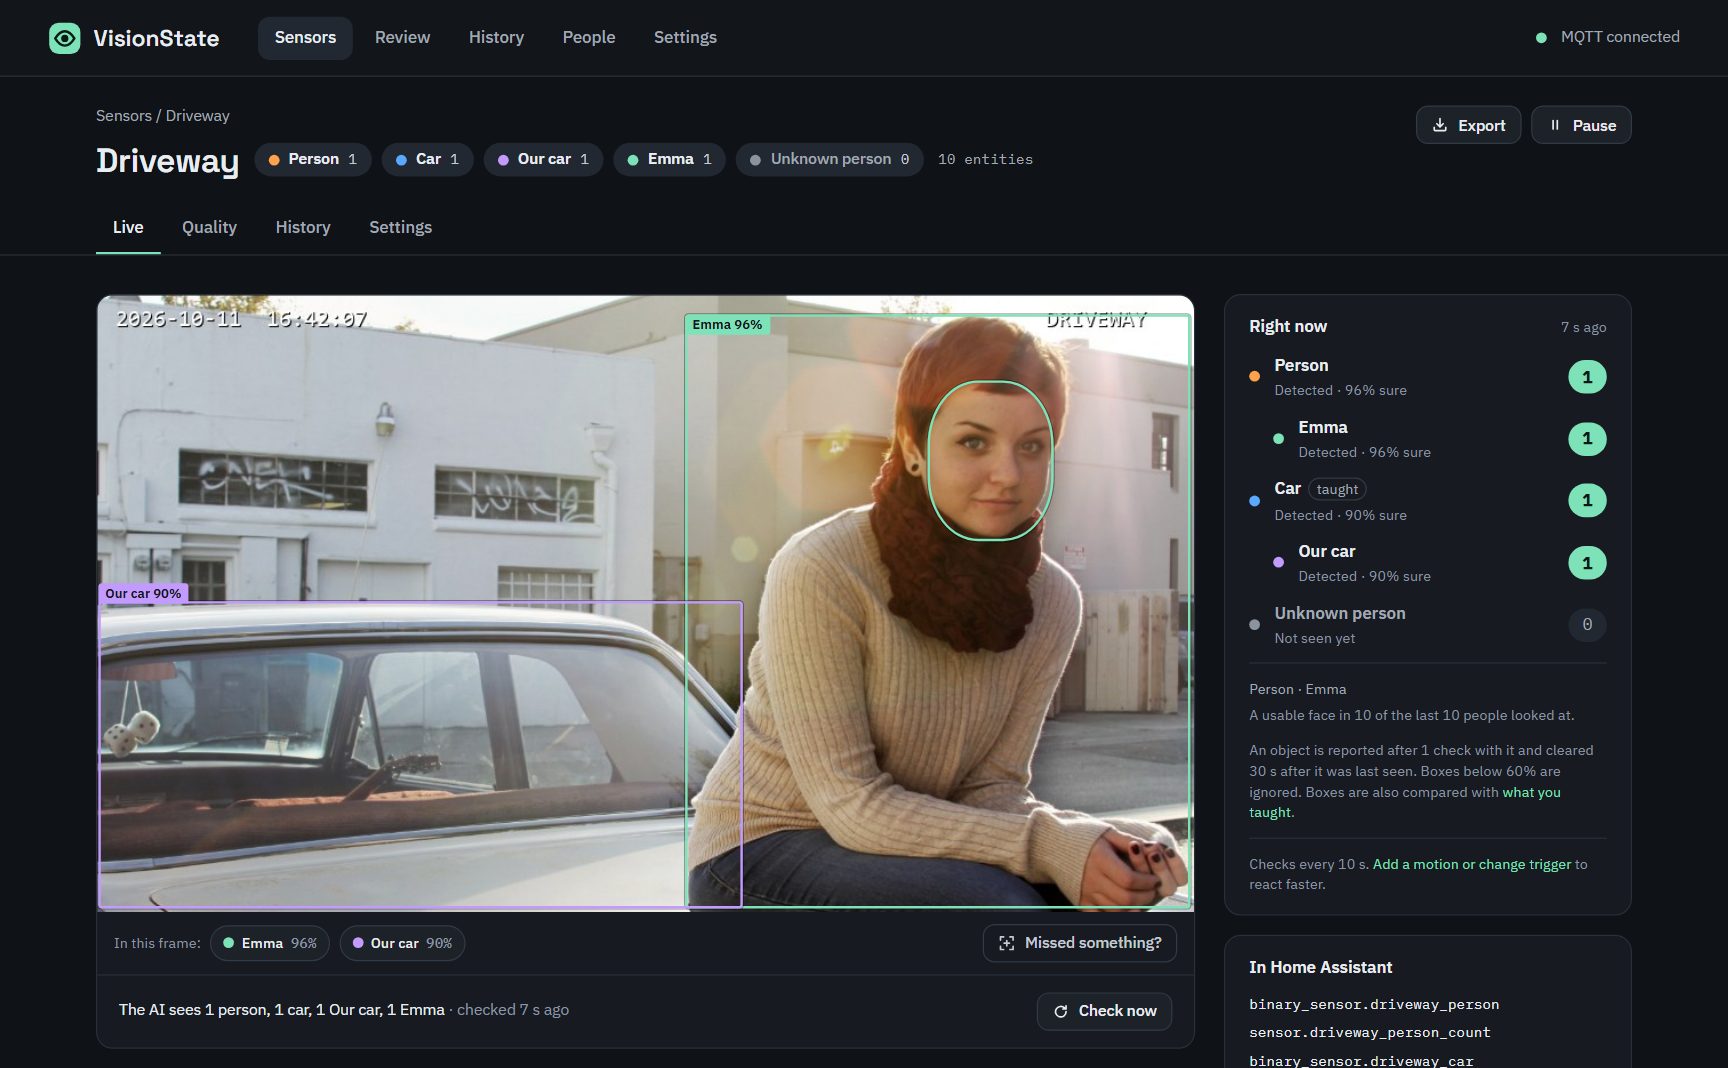
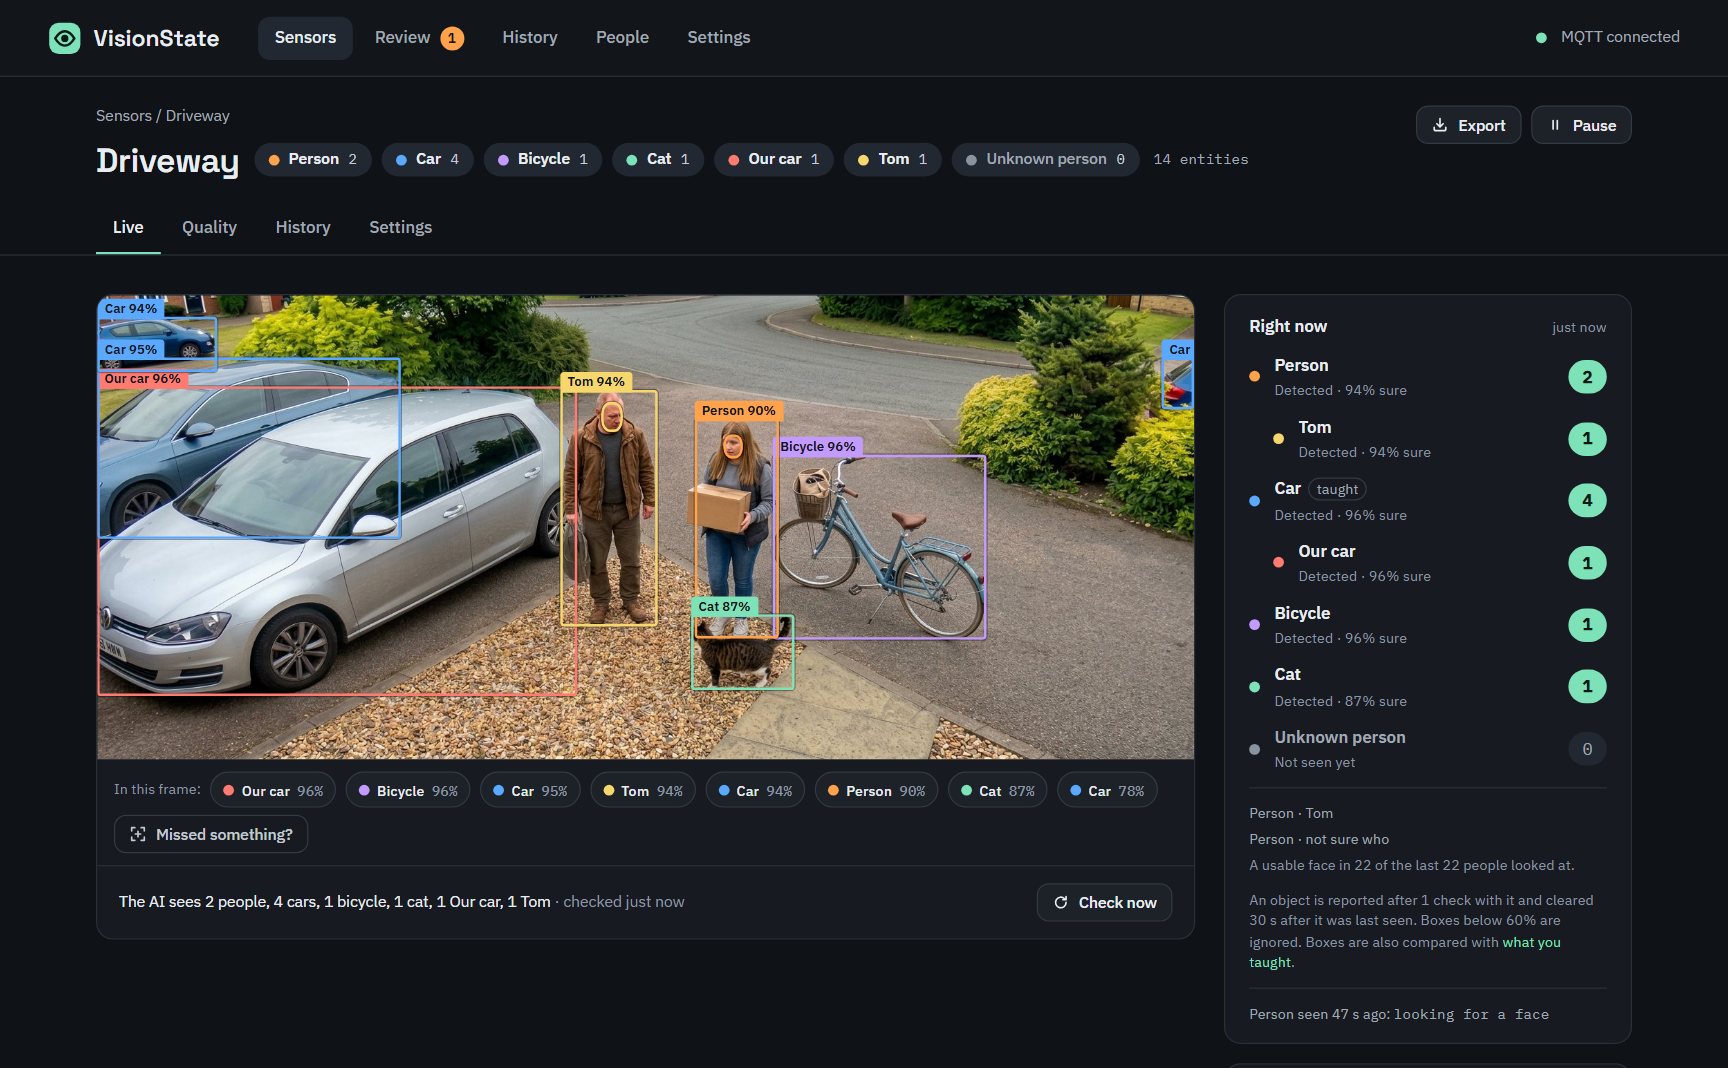
Demo: a driveway with Tom, a girl with a parcel, cars, a bicycle and a cat
The demo Driveway (scripts/seed_demo.py, the README screenshots) shows much more of what an
object sensor does. The pictures are made by the maintainer with Google Gemini (no real people,
CC0): Tom is taught on the camera from this picture and one of him alone, and from a photo as
with Add photos; the silver car is "Our car". The faces are small (1586 px wide pictures), so the
sensor looks for faces down to 26 px. The Emma photos are gone; new promo screenshots.

diff --git a/scripts/seed_demo.py b/scripts/seed_demo.py
@@ -3,8 +3,12 @@
     python scripts/seed_demo.py --url http://127.0.0.1:8099 --images http://127.0.0.1:8765/photo
     python scripts/seed_demo.py --app c088851d_visionstate      # an installed app, through Ingress
 
-- Driveway (objects): a person and a car; Emma is recognised by her face (taught from two other
-  photos of her) and the car is taught as the own label "Our car".
+- Driveway (objects): people, cars, a bicycle and a cat; Tom (the man on the left) is recognised
+  by his face, taught on this camera from this picture and from one of him alone (demo_tom), and
+  from a photo of him (demo_tom_photo, as with Add photos on the People page); the silver car is
+  taught as the own label "Our car". The faces are small (the pictures are 1586 px wide), so the
+  sensor looks for faces down to 26 px; the girl's is too small to call her a stranger, so she
+  counts as a person.
 - Garage door (states): trained on 36 frames drawn from one photo (closed, open, partial).
 - Water meter (reading): the wheels of a real water meter, one of them half way between digits.
 
@@ -30,7 +34,13 @@ import httpx
 import numpy as np
 from PIL import Image, ImageDraw, ImageEnhance, ImageFilter
 
-ASSETS = Path(__file__).resolve().parent.parent / "visionstate" / "backend" / "tests" / "assets"
+ASSETS = (
+    Path(__file__).resolve().parent.parent
+    / "visionstate"
+    / "backend"
+    / "tests"
+    / "assets"
+)
 GITHUB = "https://raw.githubusercontent.com/oleost/VisionState/beta/visionstate/backend/tests/assets"
 
 # The garage door in demo_garage.jpg (pixels) and the sensor's region around it.
@@ -55,9 +65,16 @@ def garage_frames(per_state: int = 12) -> dict[str, list[bytes]]:
         )
         mask = Image.new("L", (w, h), 0)
         ImageDraw.Draw(mask).polygon([top_l, top_r, DOOR["br"], DOOR["bl"]], fill=255)
-        m = np.asarray(mask.filter(ImageFilter.GaussianBlur(2)), dtype=np.float32)[:, :, None] / 255
+        m = (
+            np.asarray(mask.filter(ImageFilter.GaussianBlur(2)), dtype=np.float32)[
+                :, :, None
+            ]
+            / 255
+        )
         outside = np.clip(
-            235 - 70 * np.linspace(0, 1, h)[:, None] + np.random.default_rng(1).normal(0, 6, (h, w)),
+            235
+            - 70 * np.linspace(0, 1, h)[:, None]
+            + np.random.default_rng(1).normal(0, 6, (h, w)),
             0,
             255,
         )
@@ -65,7 +82,9 @@ def garage_frames(per_state: int = 12) -> dict[str, list[bytes]]:
         img = Image.fromarray(np.clip(out, 0, 255).astype("uint8"))
         ImageDraw.Draw(img).line([top_l, top_r], fill=(70, 70, 70), width=6)
         glow = Image.new("L", (w, h), 0)
-        ImageDraw.Draw(glow).polygon([DOOR["bl"], DOOR["br"], (w, h), (0, h)], fill=int(90 * frac))
+        ImageDraw.Draw(glow).polygon(
+            [DOOR["bl"], DOOR["br"], (w, h), (0, h)], fill=int(90 * frac)
+        )
         return Image.composite(
             Image.new("RGB", (w, h), (255, 255, 255)),
             img,
@@ -82,10 +101,16 @@ def garage_frames(per_state: int = 12) -> dict[str, list[bytes]]:
             (1, 0, dx, 0, 1, dy),
             fillcolor=(40, 40, 40),
         )
-        noise = np.random.default_rng(rnd.randint(0, 1 << 30)).normal(0, rnd.uniform(2, 7), (h, w, 3))
-        img = Image.fromarray(np.clip(np.asarray(img, dtype=np.float32) + noise, 0, 255).astype("uint8"))
+        noise = np.random.default_rng(rnd.randint(0, 1 << 30)).normal(
+            0, rnd.uniform(2, 7), (h, w, 3)
+        )
+        img = Image.fromarray(
+            np.clip(np.asarray(img, dtype=np.float32) + noise, 0, 255).astype("uint8")
+        )
         buf = io.BytesIO()
-        img.filter(ImageFilter.GaussianBlur(rnd.uniform(0, 1.2))).save(buf, format="JPEG", quality=88)
+        img.filter(ImageFilter.GaussianBlur(rnd.uniform(0, 1.2))).save(
+            buf, format="JPEG", quality=88
+        )
         return buf.getvalue()
 
     make = {
@@ -100,7 +125,9 @@ class Api:
     """The app's API, directly (``--url``) or through Home Assistant Ingress (``--app``)."""
 
     def __init__(self, base: str, cookies: dict | None = None):
-        self.client = httpx.Client(base_url=base.rstrip("/") + "/api/v1", cookies=cookies, timeout=180)
+        self.client = httpx.Client(
+            base_url=base.rstrip("/") + "/api/v1", cookies=cookies, timeout=180
+        )
 
     def call(self, method: str, path: str, **kwargs):
         r = self.client.request(method, path, **kwargs)
@@ -153,10 +180,14 @@ def wait(what: str, check, timeout: float = 180):
 
 
 def main() -> None:
-    parser = argparse.ArgumentParser(description=__doc__, formatter_class=argparse.RawDescriptionHelpFormatter)
+    parser = argparse.ArgumentParser(
+        description=__doc__, formatter_class=argparse.RawDescriptionHelpFormatter
+    )
     target = parser.add_mutually_exclusive_group(required=True)
     target.add_argument("--url", help="the app's address, e.g. http://127.0.0.1:8099")
-    target.add_argument("--app", help="slug of an installed app, reached through Ingress")
+    target.add_argument(
+        "--app", help="slug of an installed app, reached through Ingress"
+    )
     parser.add_argument(
         "--images",
         default=GITHUB,
@@ -187,7 +218,10 @@ def main() -> None:
     )
     if garage:
         for key, frames in garage_frames().items():
-            files = [("files", (f"{key}_{i:02d}.jpg", data, "image/jpeg")) for i, data in enumerate(frames)]
+            files = [
+                ("files", (f"{key}_{i:02d}.jpg", data, "image/jpeg"))
+                for i, data in enumerate(frames)
+            ]
             api.call(
                 "POST",
                 f"/sensors/{garage['id']}/uploads",
@@ -221,34 +255,102 @@ def main() -> None:
             "source_type": "http",
             "source": photo("demo_driveway"),
             "objects": {
-                "classes": ["person", "car"],
-                "faces": {"enabled": True, "ask_unknown": False},
+                "classes": ["person", "car", "bicycle", "cat"],
+                "faces": {"enabled": True, "ask_unknown": False, "min_face_px": 26},
             },
             "interval_s": 10,
         }
     )
-    if not any(p["name"] == "Emma" for p in api.call("GET", "/people")["people"]):
-        # The face model loads (or downloads) once a sensor recognises faces.
-        files = [
-            ("files", (f"{n}.jpg", (ASSETS / f"{n}.jpg").read_bytes(), "image/jpeg"))
-            for n in ("demo_emma_car", "demo_emma_guitar")
-        ]
+    if driveway:
+
+        def seen(key: str, after: str | None = None):
+            """The last check's frame and its boxes of ``key``, left to right (None until there are
+            any, in a frame other than ``after``)."""
+            view = api.call("GET", f"/sensors/{driveway['id']}")
+            boxes = sorted(
+                (d for d in view["objects"]["detections"] if d["key"] == key),
+                key=lambda d: d["box"][0],
+            )
+            frame_id = view["live"]["frame_id"]
+            return (frame_id, boxes) if boxes and frame_id != after else None
+
+        def teach_face(frame_id: str, box: dict, **who) -> httpx.Response:
+            body = {
+                "frame_id": frame_id,
+                "box": box["box"],
+                "score": box["score"],
+                **who,
+            }
+            return api.client.post(f"/sensors/{driveway['id']}/faces", json=body)
+
+    if driveway and not any(
+        p["name"] == "Tom" for p in api.call("GET", "/people")["people"]
+    ):
+        # Tom is the man on the left; the face model loads (or downloads) once a sensor
+        # recognises faces, so the first tries may be answered 409.
         for _ in range(60):
-            r = api.client.post("/people/photos", files=files, data={"new_person": "Emma"})
+            frame_id, people = wait(
+                "the people on the driveway", lambda: seen("person")
+            )
+            r = teach_face(frame_id, people[0], new_person="Tom")
             if r.status_code != 409:
                 break
             time.sleep(3)
         if r.status_code >= 400:
-            sys.exit(f"Emma: {r.status_code} {r.text[:300]} (an app older than 0.8.1b4 cannot teach faces from photos)")
-        print(f"Emma: {r.json()['added']} faces taught")
+            sys.exit(f"Tom: {r.status_code} {r.text[:300]}")
+        # A second face of him, from a picture of him alone on the same camera: the camera looks at
+        # it for a moment, then back at the driveway.
+        api.call(
+            "PATCH", f"/sensors/{driveway['id']}", json={"source": photo("demo_tom")}
+        )
+        try:
+            frame_id, people = wait(
+                "Tom alone",
+                lambda: (s := seen("person", frame_id)) and len(s[1]) == 1 and s,
+            )
+            r = teach_face(frame_id, people[0], person="tom")
+            if r.status_code >= 400:
+                sys.exit(f"Tom alone: {r.status_code} {r.text[:300]}")
+        finally:
+            api.call(
+                "PATCH",
+                f"/sensors/{driveway['id']}",
+                json={"source": photo("demo_driveway")},
+            )
+        tom_alone = frame_id
+        files = [
+            (
+                "files",
+                (
+                    "demo_tom_photo.jpg",
+                    (ASSETS / "demo_tom_photo.jpg").read_bytes(),
+                    "image/jpeg",
+                ),
+            )
+        ]
+        r = api.client.post("/people/photos", files=files, data={"person": "tom"})
+        if r.status_code >= 400 or not r.json()["added"]:
+            sys.exit(f"Tom's photo: {r.status_code} {r.text[:300]}")
+        print(f"Tom: {r.json()['faces']} faces taught")
+    else:
+        tom_alone = None
     if driveway:
+        # Our car is the silver one in front: the largest car box, in a frame of the driveway with
+        # both people on it (not one of Tom alone, also not one a check took while it switched back).
+        def driveway_cars():
+            people = seen("person", tom_alone)
+            cars = seen("car", tom_alone)
+            return (
+                cars
+                if people and cars and len(people[1]) == 2 and people[0] == cars[0]
+                else None
+            )
 
-        def car():
-            view = api.call("GET", f"/sensors/{driveway['id']}")
-            cars = [d for d in view["objects"]["detections"] if d["key"] == "car"]
-            return (view["live"]["frame_id"], cars[0]) if cars else None
-
-        frame_id, box = wait("the car on the driveway", car)
+        frame_id, cars = wait("the cars on the driveway", driveway_cars)
+        box = max(
+            cars,
+            key=lambda d: (d["box"][2] - d["box"][0]) * (d["box"][3] - d["box"][1]),
+        )
         api.call(
             "POST",
             f"/sensors/{driveway['id']}/taught",

diff --git a/visionstate/backend/tests/assets/README.md b/visionstate/backend/tests/assets/README.md
@@ -35,12 +35,12 @@ The demo sensors (`scripts/seed_demo.py`, the README screenshots) use:
 
 | File | What | Source |
 |---|---|---|
-| `demo_driveway.jpg` | Emma on her car, cut to 16:9 with a camera's date and name drawn on | [Woman Car](https://stocksnap.io/photo/woman-car-WKVLDV0K0G) by Candace McDaniel, StockSnap (CC0) |
-| `demo_emma_car.jpg` | Emma in the same car: a face to teach | [Woman Car](https://stocksnap.io/photo/woman-car-XHLANQWHBS), same author (CC0) |
-| `demo_emma_guitar.jpg` | Emma on the car with a guitar: a face to teach | [Woman Car](https://stocksnap.io/photo/woman-car-TV3QFON1JP), same author (CC0) |
+| `demo_driveway.jpg` | A driveway seen from above: Tom and a girl with a parcel, cars, a bicycle and a cat | Made by the maintainer with Google Gemini (AI, no real people), CC0 |
+| `demo_tom.jpg` | Tom alone on the same driveway: a face to teach on the camera | Made by the maintainer with Google Gemini (AI, no real people), CC0 |
+| `demo_tom_photo.jpg` | Tom close up, as a photo from a phone: a face to teach with Add photos | Made by the maintainer with Google Gemini (AI, no real people), CC0 |
 | `demo_garage.jpg` | A garage door from inside, cut; the script draws it open and half open | [Utility building interior view of wood panel overhead garage doors](https://commons.wikimedia.org/wiki/File:UTILITY_BUILDING_INTERIOR_VIEW_OF_WOOD_PANEL_OVERHEAD_GARAGE_DOORS,_LOOKING_NORTHWEST._-_Tucson_Plant_Materials_Center,_General_Utility_Building,_3241_North_Romero_Road,_HABS_ARIZ,10-TUCSO,32C-7.tif), HABS (public domain) |
 
-"Emma" is a made-up name. The water meter is `counter_turning.jpg` above.
+"Tom" is a made-up name. The water meter is `counter_turning.jpg` above.
 
 `backups/` holds a backup made by each database version and backup format (`backup-format<F>-schema<S>.zip`),
 drawn by our own code (`tests/backup_fixture.py`): every later version's tests restore each of

diff --git a/README.md b/README.md
@@ -39,17 +39,17 @@ Click a few examples of each state; it learns in about a second.
 
 ### 🧍 Objects & people
 
-*Emma is home*, *our car is in the driveway*, a cat on the lawn, an unknown person at the door.
+*Tom is home*, *our car is in the driveway*, a cat and a bicycle on it, an unknown person at the door.
 
 Pick from 80 objects — no training. Name people by their face once; every camera knows them.
 
 <p align="center">
-  <img src="docs/promo/objects.png" alt="An object sensor recognising Emma by her face and telling our car from any car" width="900"><br>
-  <em>Emma recognised by her face, and our own car told apart from any other car.</em>
+  <img src="docs/promo/objects.png" alt="An object sensor recognising Tom by his face and telling our car from any car" width="900"><br>
+  <em>Tom recognised by his face, and our own car told apart from any other car.</em>
 </p>
 
 <p align="center">
-  <img src="docs/promo/people.png" alt="The People page with the faces taught for Emma" width="900"><br>
+  <img src="docs/promo/people.png" alt="The People page with the faces taught for Tom" width="900"><br>
   <em>A few photos from your phone are enough to start; faces never leave your Home Assistant.</em>
 </p>
 
@@ -86,7 +86,7 @@ on for each reading; a battery camera can trigger a check when it has a new pict
 
 <p align="center">
   <img src="docs/promo/ha-states.png" alt="A garage door state sensor as a Home Assistant device" width="340">
-  <img src="docs/promo/ha-objects.png" alt="The driveway object sensor as a Home Assistant device, with Emma and our car" width="340">
+  <img src="docs/promo/ha-objects.png" alt="The driveway object sensor as a Home Assistant device, with Tom and our car" width="340">
 </p>
 
 - **State sensor** — the state with its confidence, the last frame, a button to check now and a switch to pause it.

diff --git a/CLAUDE.md b/CLAUDE.md
@@ -154,12 +154,15 @@ Many users run Home Assistant on phones and tablets.
   watch it `--headed` or step through it `--ui`; after a failure `npx playwright show-trace
   test-results/<test>/trace.zip`.
 - **Demo sensors:** `python scripts/seed_demo.py --url <app> --images <camera>` seeds one sensor of
-  each kind (Driveway with Emma and "Our car", Garage door, Water meter) on any instance: locally
+  each kind (Driveway with Tom and "Our car", Garage door, Water meter) on any instance: locally
   with `--images http://127.0.0.1:8765/photo` (the fake camera), or on an installed app with
   `--app <slug>` (photos from GitHub). Running it twice changes nothing.
 - **Docs screenshots** (`docs/promo/`): seed the demo sensors on a local backend with a local MQTT
   broker (so the header shows *MQTT connected*), then `node e2e/promo.mjs <app URL>` in
-  `visionstate/frontend` (1440 px wide, device scale 1.2).
+  `visionstate/frontend` (1440 px wide, device scale 1.2). Not a broker another VisionState is
+  connected to: both use the same client ID and push each other off every few seconds (on a test
+  broker that is in use, `VISIONSTATE_DISCOVERY_PREFIX` keeps the entities out of Home Assistant,
+  but not that).
   The Home Assistant screenshots (`ha-*.png`) are taken by hand on a real Home Assistant. Show the
   maintainer before publishing.
 
